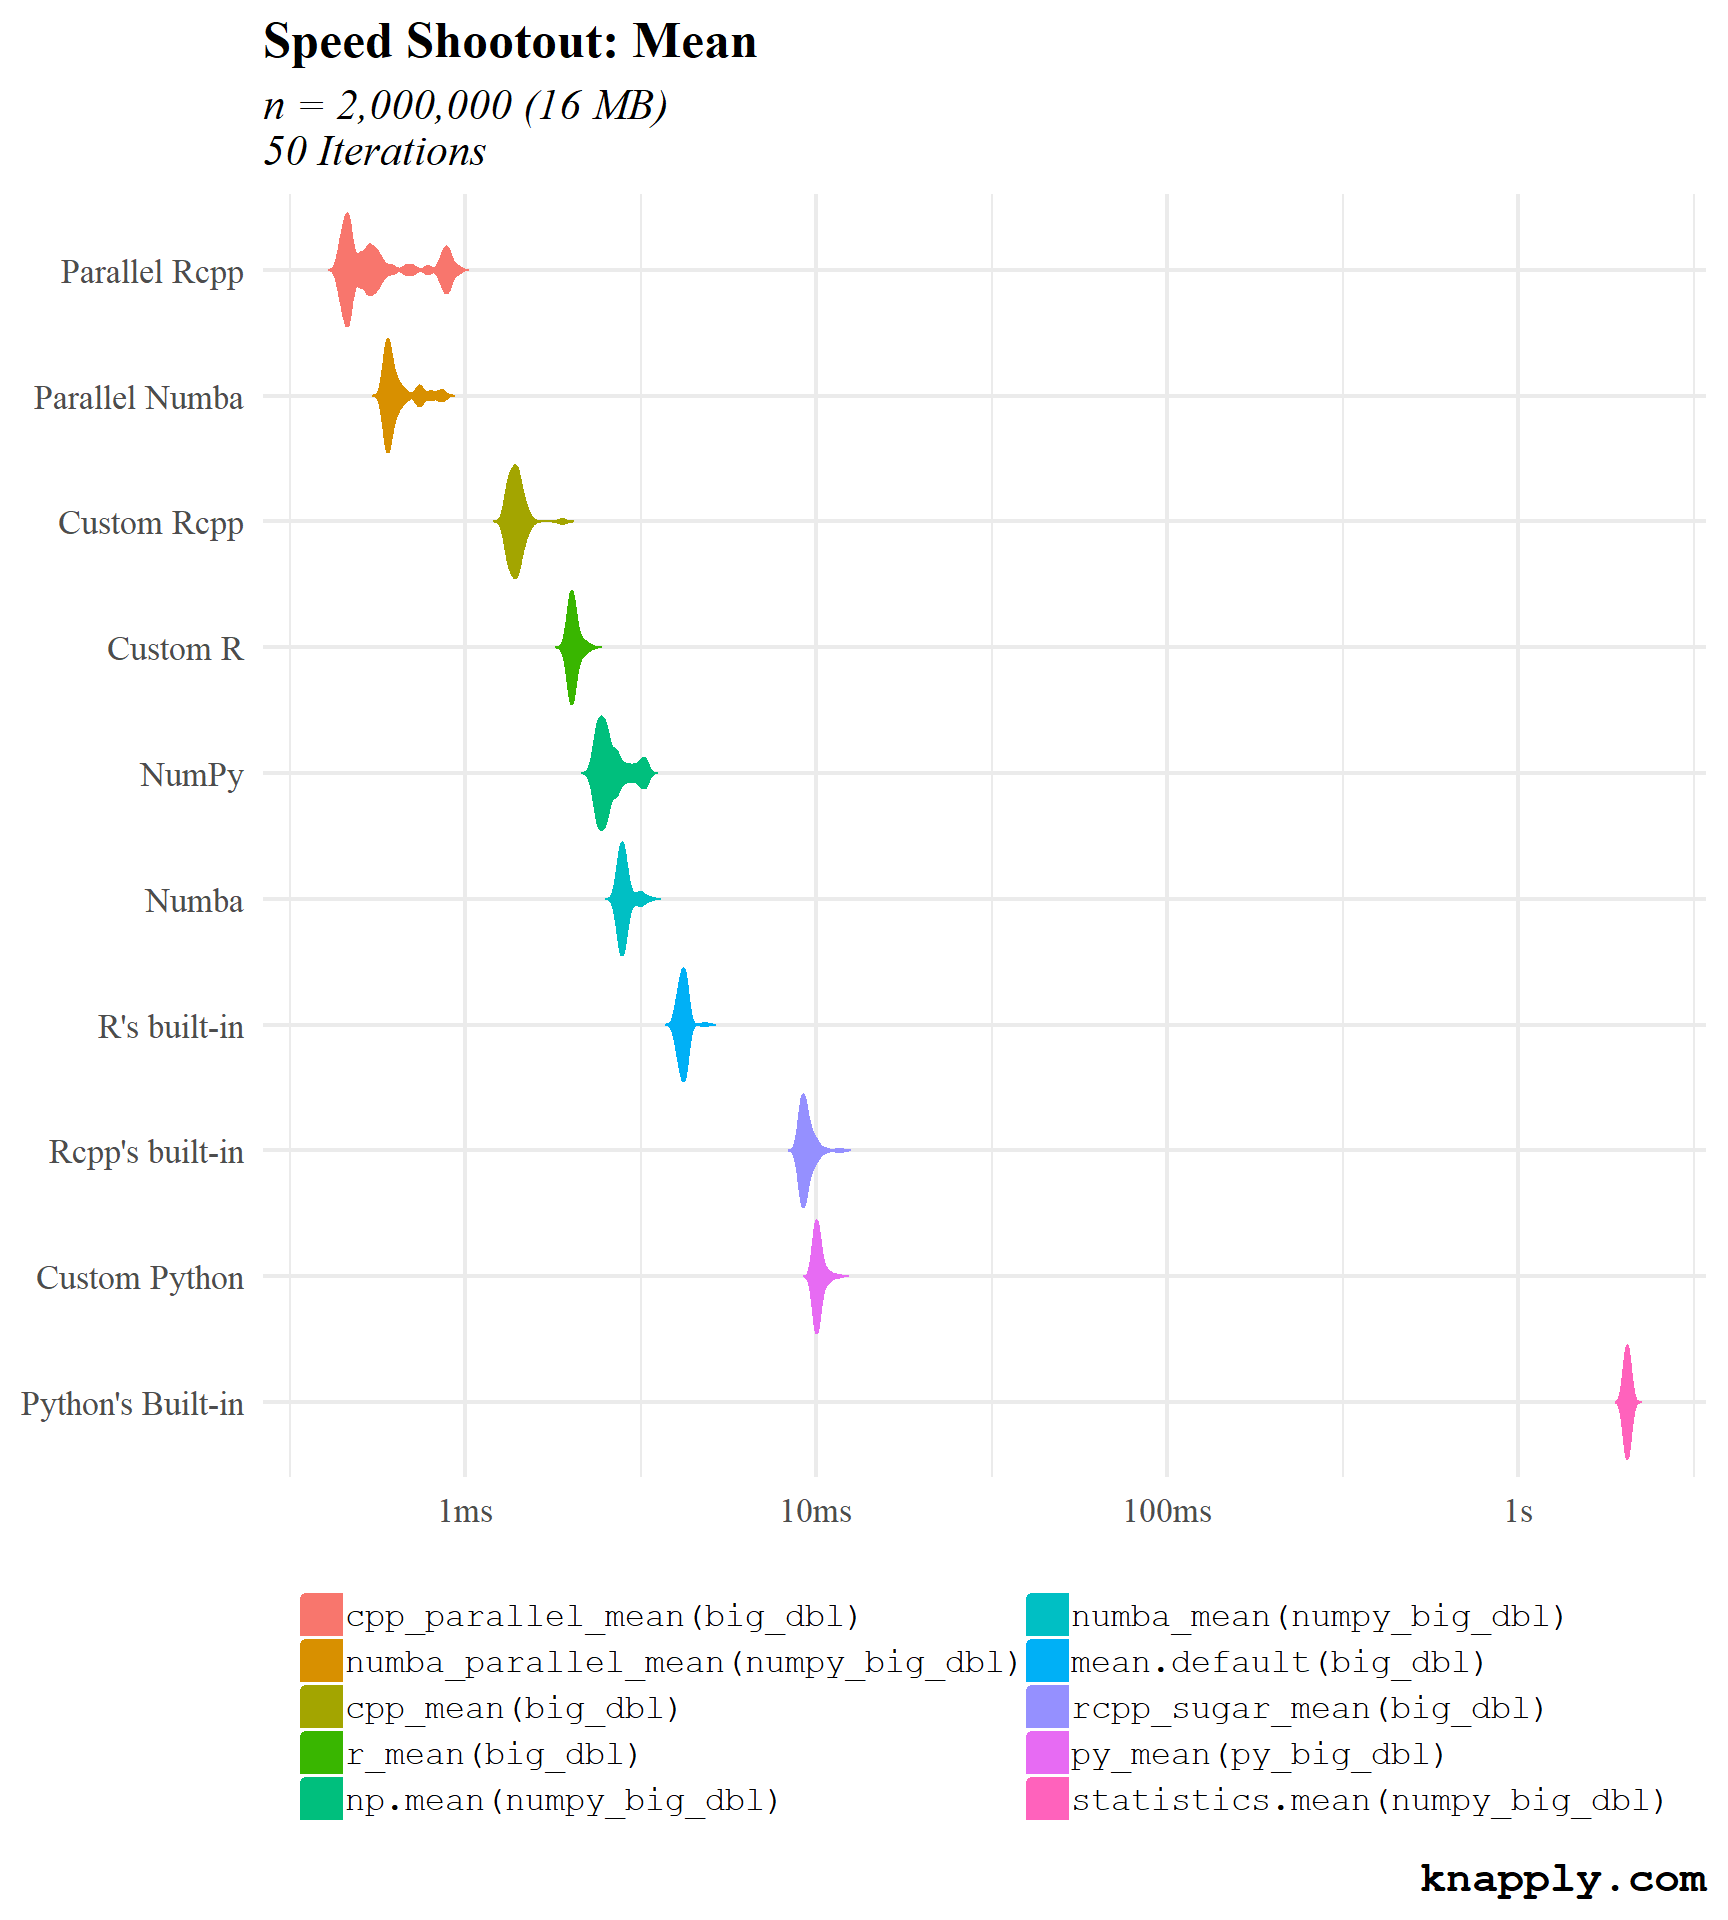
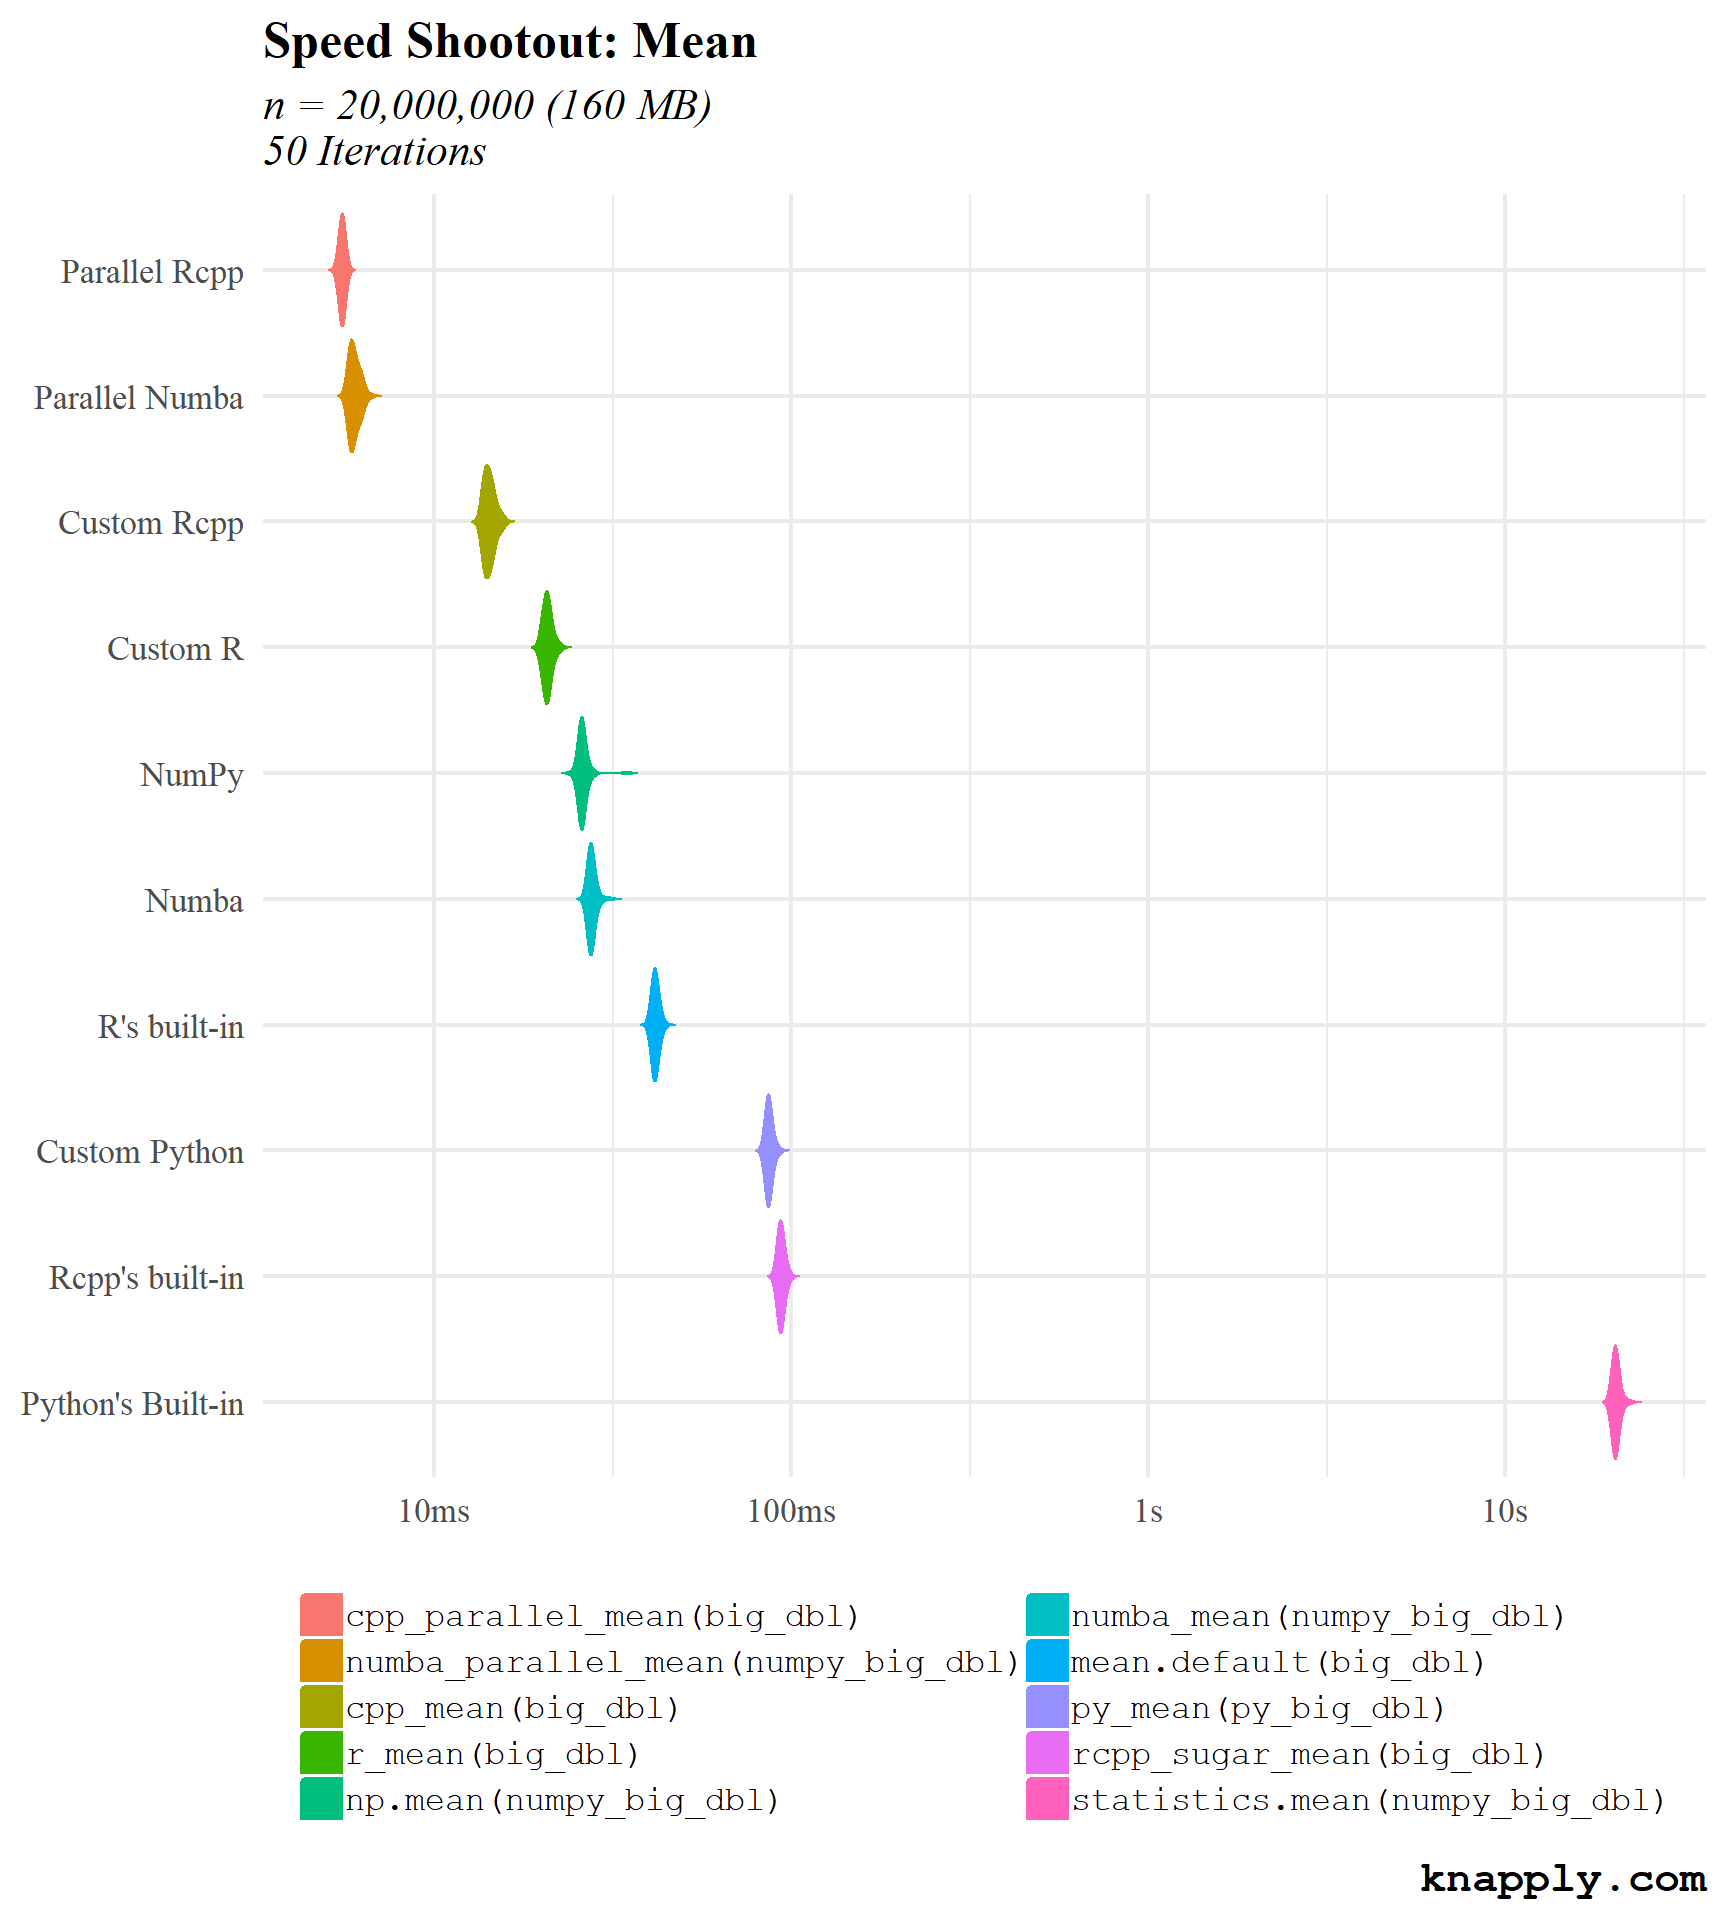
mode

diff --git a/content/post/mean/index.html b/content/post/mean/index.html
@@ -239,7 +239,7 @@ library(bench)</code></pre>
 <p>Create R Data</p>
 <pre class="r"><code>set.seed(831)
 big_dbl &lt;- seq(-1e7, 1e7, by = 0.02) %&gt;%
-  sample(replace = TRUE, size = 1e5) %&gt;%
+  sample(replace = TRUE, size = 1e6) %&gt;%
   rep(20) %&gt;%
   sample(replace = TRUE)
 
@@ -255,12 +255,12 @@ numpy_big_dbl = np.array(py_big_dbl)</code></pre>
             py$numpy_big_dbl)
   )</code></pre>
 <pre class="r"><code>(n &lt;- scales::comma(length(big_dbl)))</code></pre>
-<pre><code>#&gt; [1] &quot;2,000,000&quot;</code></pre>
+<pre><code>#&gt; [1] &quot;20,000,000&quot;</code></pre>
 <pre class="r"><code>(mem &lt;- capture.output(pryr::object_size(big_dbl)))</code></pre>
 <pre><code>#&gt; Registered S3 method overwritten by &#39;pryr&#39;:
 #&gt;   method      from
 #&gt;   print.bytes Rcpp</code></pre>
-<pre><code>#&gt; [1] &quot;16 MB&quot;</code></pre>
+<pre><code>#&gt; [1] &quot;160 MB&quot;</code></pre>
 </p>
 </details>
 <details>

diff --git a/public/post/mean/index.html b/public/post/mean/index.html
@@ -683,7 +683,7 @@ library(bench)</code></pre>
 <p>Create R Data</p>
 <pre class="r"><code>set.seed(831)
 big_dbl &lt;- seq(-1e7, 1e7, by = 0.02) %&gt;%
-  sample(replace = TRUE, size = 1e5) %&gt;%
+  sample(replace = TRUE, size = 1e6) %&gt;%
   rep(20) %&gt;%
   sample(replace = TRUE)
 
@@ -699,12 +699,12 @@ numpy_big_dbl = np.array(py_big_dbl)</code></pre>
             py$numpy_big_dbl)
   )</code></pre>
 <pre class="r"><code>(n &lt;- scales::comma(length(big_dbl)))</code></pre>
-<pre><code>#&gt; [1] &quot;2,000,000&quot;</code></pre>
+<pre><code>#&gt; [1] &quot;20,000,000&quot;</code></pre>
 <pre class="r"><code>(mem &lt;- capture.output(pryr::object_size(big_dbl)))</code></pre>
 <pre><code>#&gt; Registered S3 method overwritten by &#39;pryr&#39;:
 #&gt;   method      from
 #&gt;   print.bytes Rcpp</code></pre>
-<pre><code>#&gt; [1] &quot;16 MB&quot;</code></pre>
+<pre><code>#&gt; [1] &quot;160 MB&quot;</code></pre>
 </p>
 </details>
 <details>

diff --git a/content/post/median/index.html b/content/post/median/index.html
@@ -287,7 +287,7 @@ library(bench)</code></pre>
 <p>Create R Data</p>
 <pre class="r"><code>set.seed(831)
 big_dbl &lt;- seq(-1e7, 1e7, by = 0.02) %&gt;%
-  sample(replace = TRUE, size = 1e5) %&gt;%
+  sample(replace = TRUE, size = 1e6) %&gt;%
   rep(20) %&gt;%
   sample(replace = TRUE)
 
@@ -303,9 +303,9 @@ numpy_big_dbl = np.array(py_big_dbl)</code></pre>
             py$numpy_big_dbl)
   )</code></pre>
 <pre class="r"><code>(n &lt;- scales::comma(length(big_dbl)))</code></pre>
-<pre><code>#&gt; [1] &quot;2,000,000&quot;</code></pre>
+<pre><code>#&gt; [1] &quot;20,000,000&quot;</code></pre>
 <pre class="r"><code>(mem &lt;- capture.output(pryr::object_size(big_dbl)))</code></pre>
-<pre><code>#&gt; [1] &quot;16 MB&quot;</code></pre>
+<pre><code>#&gt; [1] &quot;160 MB&quot;</code></pre>
 </p>
 </details>
 <details>

diff --git a/public/post/median/index.html b/public/post/median/index.html
@@ -731,7 +731,7 @@ library(bench)</code></pre>
 <p>Create R Data</p>
 <pre class="r"><code>set.seed(831)
 big_dbl &lt;- seq(-1e7, 1e7, by = 0.02) %&gt;%
-  sample(replace = TRUE, size = 1e5) %&gt;%
+  sample(replace = TRUE, size = 1e6) %&gt;%
   rep(20) %&gt;%
   sample(replace = TRUE)
 
@@ -747,9 +747,9 @@ numpy_big_dbl = np.array(py_big_dbl)</code></pre>
             py$numpy_big_dbl)
   )</code></pre>
 <pre class="r"><code>(n &lt;- scales::comma(length(big_dbl)))</code></pre>
-<pre><code>#&gt; [1] &quot;2,000,000&quot;</code></pre>
+<pre><code>#&gt; [1] &quot;20,000,000&quot;</code></pre>
 <pre class="r"><code>(mem &lt;- capture.output(pryr::object_size(big_dbl)))</code></pre>
-<pre><code>#&gt; [1] &quot;16 MB&quot;</code></pre>
+<pre><code>#&gt; [1] &quot;160 MB&quot;</code></pre>
 </p>
 </details>
 <details>
